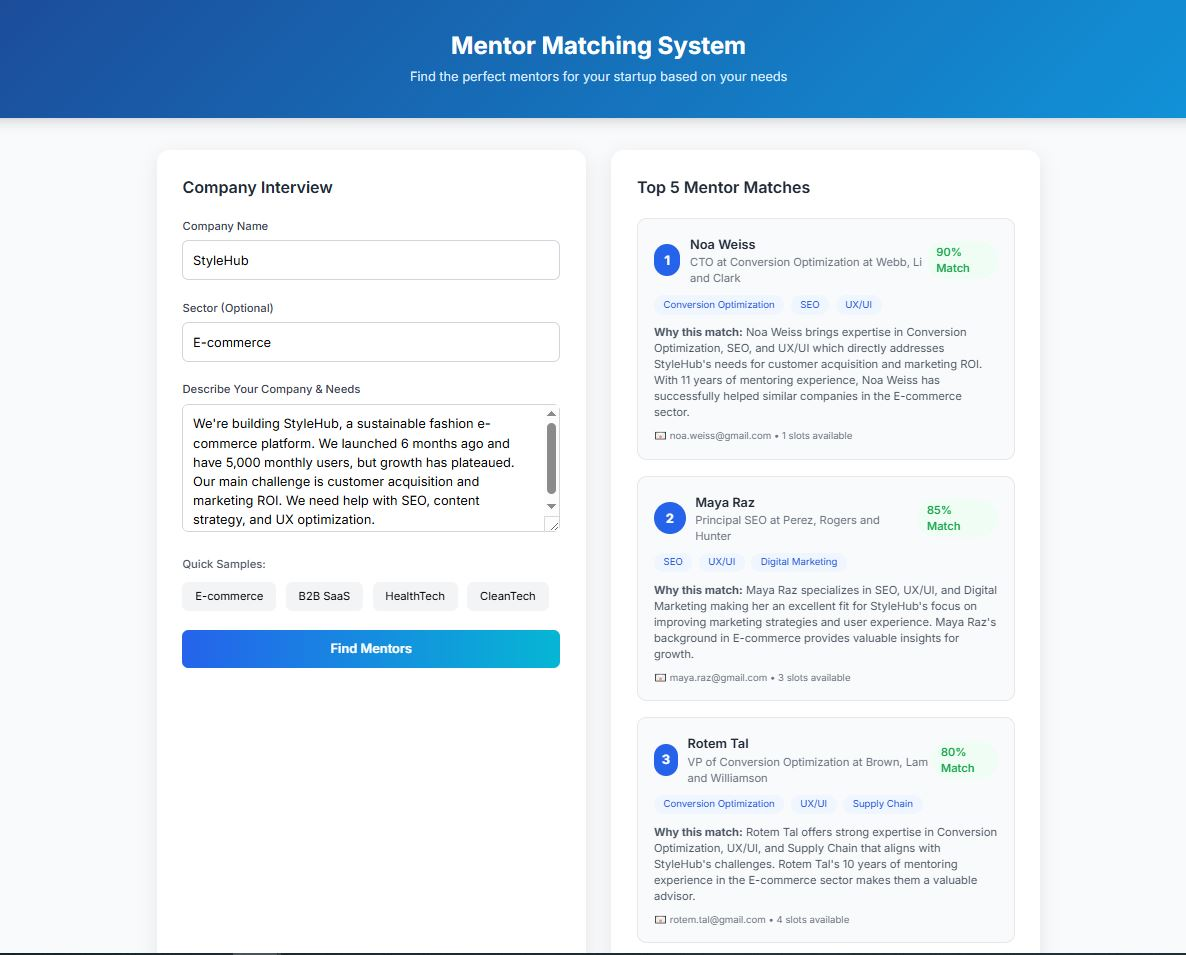
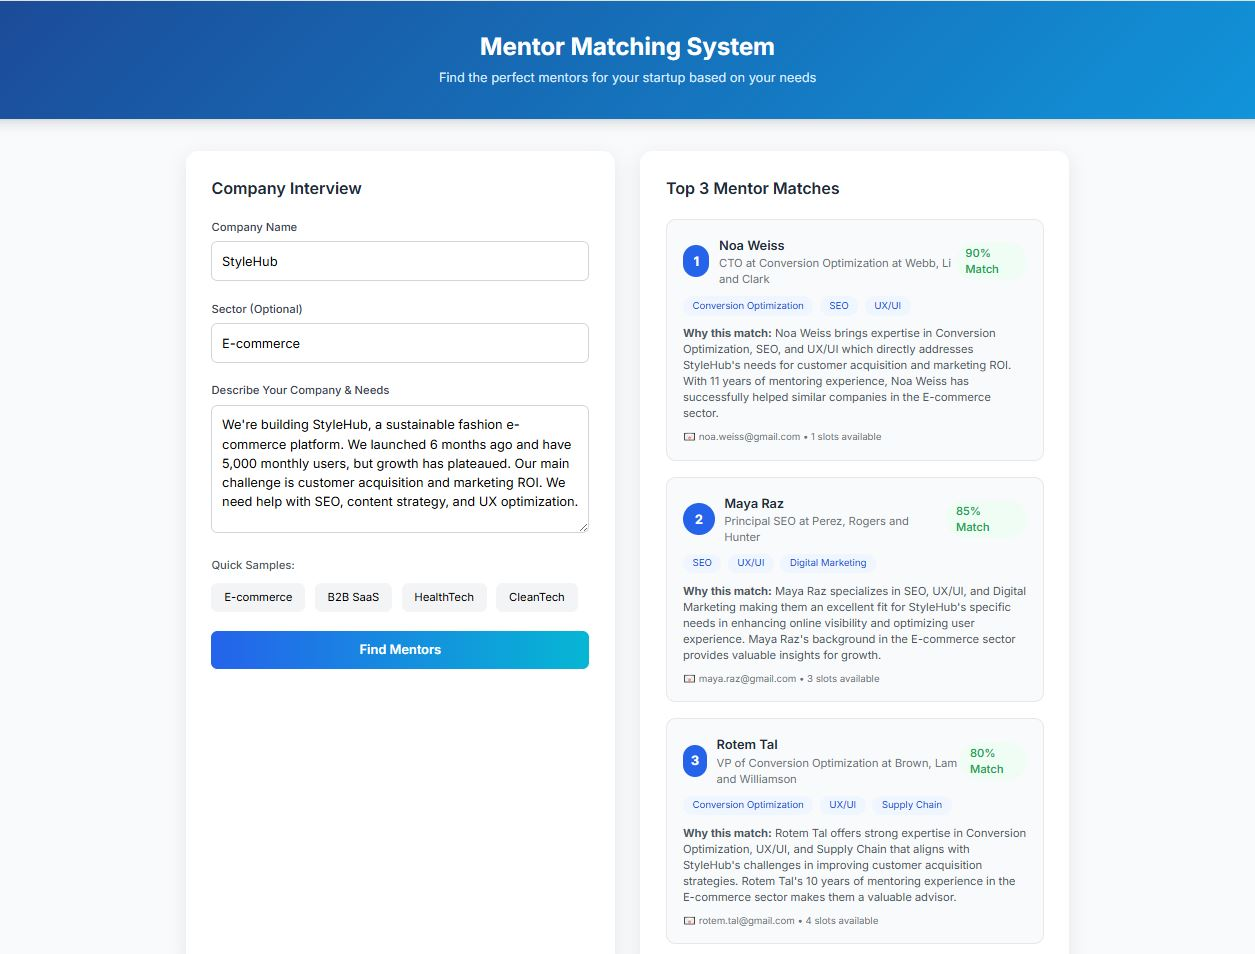
Add matching system picture

diff --git a/frontend/index.html b/frontend/index.html
@@ -170,7 +170,7 @@
       <!-- Right Card -->
       <section class="bg-white rounded-2xl p-8 card-shadow">
         <h2 class="text-xl font-semibold text-gray-800 mb-6">
-          Top 5 Mentor Matches
+          Top 3 Mentor Matches
         </h2>
 
         <div
